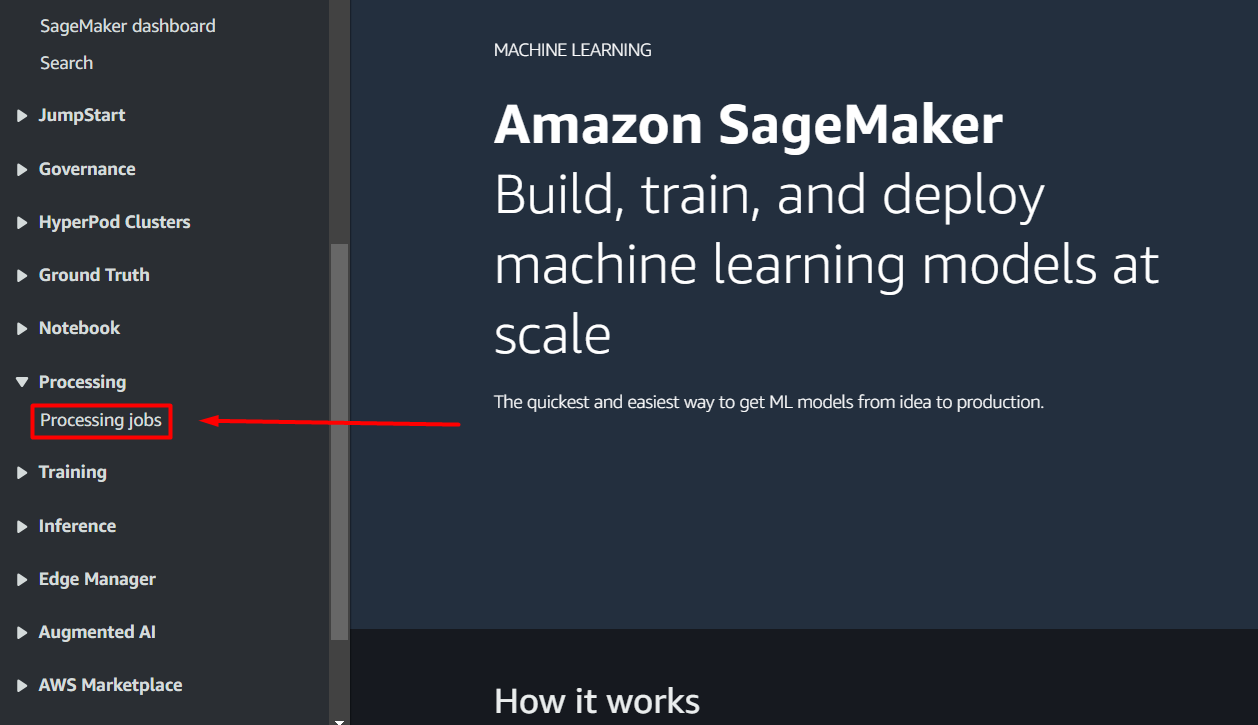
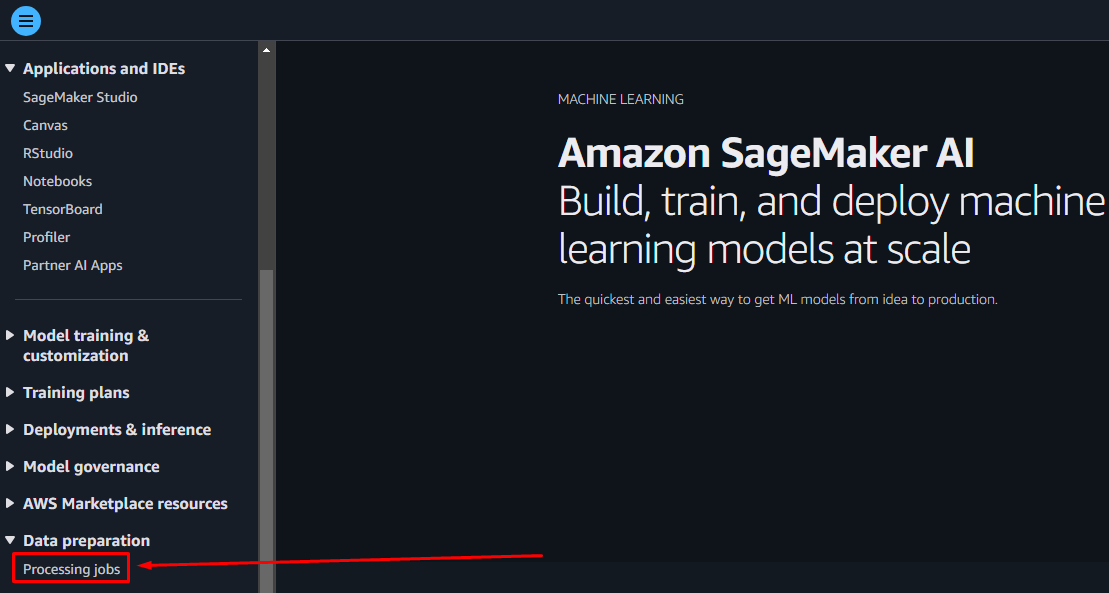
revise tutorial 1

diff --git a/2-ml-workflow/console-tutorial.md b/2-ml-workflow/console-tutorial.md
@@ -8,7 +8,7 @@
       <ul>
         <li><a href="#introduction">Introduction</a></li>
         <li><a href="#lambda-functions">Lambda functions</a></li>
-        <li><a href="#invoking-a-lambda-function">Invoking a Lambda function</a>
+        <li><a href="#invoking-lambda-function">Invoking Lambda function</a>
           <ul>
             <li><a href="#types-of-invocations">Types of invocations</a></li>
             <li><a href="#setting-up">Setting up</a></li>
@@ -20,11 +20,22 @@
     </li>
     <li><a href="#aws-step-functions">AWS Step Functions</a>
       <ul>
-        <li><a href="#introduction">Introduction</a></li>
+        <li><a href="#introduction-1">Introduction</a></li>
         <li><a href="#amazon-states-language">Amazon States Language</a></li>
-        <li><a href="#setting-up-role">Setting up role</a></li>
-        <li><a href="#creating-a-workflow">Creating a workflow</a></li>
-        <li><a href="#invoking-a-workflow">Invoking a workflow</a></li>
+        <li><a href="#setting-up-1">Setting up</a></li>
+        <li><a href="#creating-workflow">Creating workflow</a>
+          <ul>
+            <li><a href="#dafting">Drafting</a></li>
+            <li><a href="#configuring-processing-job">Configuring Processing Job</a></li>
+            <li><a href="#configuring-training-job">Configuring Training Job</a></li>
+            <li><a href="#configuring-model-deployment">Configuring Model Deployment</a></li>
+            <li><a href="#configuring-endpoint">Configuring Endpoint</a></li>
+            <li><a href="#configuring-batch-transform-job">Configuring Batch Transform Job</a></li>
+            <li><a href="#finishing-up">Finishing up</a></li>
+          </ul>
+        </li>
+        <li><a href="#executing-state-machine">Executing state machine</a></li>
+        <li><a href="#invoking-workflow">Invoking workflow</a></li>
       </ul>
     </li>
     <li><a href="#epilogue">Epilogue</a></li>
@@ -95,7 +106,7 @@ In this exercise, you're going to create a basic Lambda function in Python. Then
 14. Click through the log of an event you want to investigate and you can see the error message from there.
 <p align="center"><img src="img/error-log.png" width="80%"></p>
 
-### Invoking a Lambda function
+### Invoking Lambda function
 #### Types of invocations
 There are two types of Lambda function invocations:
 * Synchronous invocation will launch the function and expect a immediate response from the function. As a general rule, you'll be invoking Lambda functions synchronously in ML engineering operations.
@@ -197,18 +208,18 @@ The Amazon States Language (ASL) is a JSON-based, structured language used to de
 ASL originally employs JSONPath as its query language. However, it recently adopts [JSONata](https://docs.jsonata.org/overview.html) as the default query language. When a state machine execution receives JSON input from execution, it passes that data to the first state in the workflow as input. With JSONata, you can retrieve a state input from `states.input`. If a state is successfully completed, its API response will be stored in `states.result`. Furthermore, you can use JSONata to dynamically configure your state machine during each execution.
 <p align="center"><img src="img/vars-jsonata.png" width="80%"></p>
 
-In this exercise, you will embed JSONata expression inside a string value. The expression must start with `{%` with no leading spaces, and must end with `%}` with no trailing spaces. Improperly opening or closing the expression will result in a validation error.
+In this exercise, you will ue JSONata expression a lot. The expression must start with `{%` with no leading spaces, and must end with `%}` with no trailing spaces. Improperly opening or closing the expression will result in a validation error.
 ```JSON
-"{% <JSONata expression> %}"
+{% <JSONata expression> %}
 ```
-Any JSONata functions, provided by Step Functions, or variables must start with the character `$`, e.g. `$states.result` or `$split($variable_1)[0]`. Moreover, because the JSONata expression is in a string value, to add a string into the expression, use the single quote `'` or `\"`. Finally, to concatenate string, use the ampersand character `&`. For example:
+Any JSONata functions, provided by Step Functions, or variables must start with the character `$`, e.g. `$states.result` or `$split($variable_1)[0]`. Moreover, if the JSONata expression is embedded in ASL, it should be enclosed within a string. Thus, to add a string into the expression, use the single quote `'` or `\"`. Finally, to concatenate string, use the ampersand character `&`. For example:
 ```JSON
 "{% $states.input.prefix & 'train/' & $split($states.input.dataset, '.', 1)[0] & '_train.txt' %}"
 ```
 
 No worries, this tutorial will help you set up an ML workflow with ASL along the way. For more information, read [this](https://docs.aws.amazon.com/step-functions/latest/dg/transforming-data.html#writing-jsonata-expressions-in-json-strings) and watch [this](https://www.youtube.com/watch?v=kVWxJoO_zc8).
 
-### Setting up role
+### Setting up
 First of all, you need to create a role and your state machine will use it to gain full access to SageMaker AI and CloudWatch Events:
 1. Head to IAM using the search bar.
 <p align="center"><img src="img/iam.png" width="60%"></p>
@@ -223,7 +234,8 @@ First of all, you need to create a role and your state machine will use it to ga
 5. From the list of role names, click on the name of the role you have just created. From the role details console, attach both *AmazonSageMakerFullAccess* and *CloudWatchEventsFullAccess* to your role. \
 Your state machine needs access to Amazon CloudWatch Events (now part of Amazon EventBridge) so that it can send logs and events to CloudWatch. This enables you to monitor, debug, and manage your workflow.
 
-### Creating a workflow
+### Creating workflow
+#### Drafting
 Now it's time to contruct an ML workflow with Step Functions:
 1. Head to Step Functions using the search bar and in the left sidebar, select *State machines*.
 2. Click the *Create state machine* button.
@@ -233,10 +245,11 @@ Now it's time to contruct an ML workflow with Step Functions:
 4. Take a look at the picture below. Now, use the search bar in the left sidebar of the console, find the illustrated states, and drag them onto the graph canvas to create the corresponding workflow. Rename each state as needed.
 <p align="center"><img src="img/stepfunctions-graph.png"></p>
 
-5. Click on the first state. In the right sidebar, go to the *Configuration* tab, scroll down, and check the option *Wait for task to complete*.
+#### Configuring Processing Job
+1. Click on the first state. In the right sidebar, go to the *Configuration* tab, scroll down, and check the option *Wait for task to complete*.
 <p align="center"><img src="img/sync.png" width="60%"></p>
 
-6. Go to the *Arguments & Output* tab, remove text in the *Arguments* field and write below text instead.You will gradually add more fields inside the curly braces to correctly configure this state. Each field must be separated by a comma and formatted in *valid JSON syntax*. For more information about CreateProcessingJob's arguments, go [here](https://docs.aws.amazon.com/sagemaker/latest/APIReference/API_CreateProcessingJob.html). <p align="center"><img src="img/arg-config.png" width="70%"></p>
+2. Go to the *Arguments & Output* tab, remove text in the *Arguments* field and write below text instead.You will gradually add more fields inside the curly braces to correctly configure this state. Each field must be separated by a comma and formatted in *valid JSON syntax*. For more information about CreateProcessingJob's arguments, go [here](https://docs.aws.amazon.com/sagemaker/latest/APIReference/API_CreateProcessingJob.html). <p align="center"><img src="img/arg-config.png" width="70%"></p>
 
     ```JSON
     {
@@ -244,11 +257,11 @@ Now it's time to contruct an ML workflow with Step Functions:
       "RoleArn": "?"
     }
     ```
-7. Since the name for new processing job must be unique, you should not hard-code its name in the *ProcessingJobName* field. If a static name is used, the state machine will create processing job with the same name for every execution, which will cause error and disrupt the workflow. Instead, dynamically generate a unique name using JSONata expression. In the *ProcessingJobName* field, enter the leading string of your choice for the name and concatenate it with the function `millis()`. For example, `{% 'BlazingText-' & $millis() %}`. Feel free to use different expression.
-8. In the *RoleArn* field, enter the ARN (Amazon Resource Name) of the role you created and used throughout your SageMaker AI experiments in the last tutorial. To do this, head to IAM. In the left navigation sidebar, go to *Access Management* → *Roles*. Then find and click on the name of the role and you will be able to see its ARN.
+3. Since the name for new processing job must be unique, you should not hard-code its name in the *ProcessingJobName* field. If a static name is used, the state machine will create processing job with the same name for every execution, which will cause error and disrupt the workflow. Instead, dynamically generate a unique name using JSONata expression. In the *ProcessingJobName* field, enter the leading string of your choice for the name and concatenate it with the function `millis()`. For example, `{% 'BlazingText-' & $millis() %}`. Feel free to use different expression.
+4. In the *RoleArn* field, enter the ARN (Amazon Resource Name) of the role you created and used throughout your SageMaker AI experiments in the last tutorial. To do this, head to IAM. In the left navigation sidebar, go to *Access Management* → *Roles*. Then find and click on the name of the role and you will be able to see its ARN.
 <p align="center"><img src="img/sagemaker-role.png" width="80%"></p>
 
-9. Add the field below to set up the resources for the job. Remember to seperate it from the previous field with a comma.
+5. Add the field below to set up the resources for the job. Remember to seperate it from the previous field with a comma.
     ```JSON
     "ProcessingResources": {
       "ClusterConfig": {
@@ -258,7 +271,7 @@ Now it's time to contruct an ML workflow with Step Functions:
       }
     }
     ```
-10. Add the field below to set up the inputs for the job. Remember to seperate it from the previous field with a comma. This field contains a list. Just like before, your processing job will have 2 inputs: raw dataset and Python script. So, this list contains two corresponding elements.
+6. Add the field below to set up the inputs for the job. Remember to seperate it from the previous field with a comma. This field contains a list. Just like before, your processing job will have 2 inputs: raw dataset and Python script. So, this list contains two corresponding elements.
     ```JSON
     "ProcessingInputs": [
       {
@@ -290,7 +303,7 @@ Now it's time to contruct an ML workflow with Step Functions:
     }
     ```
     The second element is for the Python script. Provide the S3 location and the local path in the corresponding subfields. No JSONata expression needed.
-11. Add the below field. As before, find and enter the registry path of scikit-learn's processing image in the *AppSpecification* field. For the second element of the *ContainerEntrypoint* field, enter the local address to your Python script, e.g. `/opt/ml/processing/input/code/<your_script_name>`. If you use the provided Python code, enter a JSONata expression in the *ContainerArguments* field, which retrieves the dataset name through state input. Otherwise, remove this subfield.
+7. Add the below field. As before, find and enter the registry path of scikit-learn's processing image in the *AppSpecification* field. For the second element of the *ContainerEntrypoint* field, enter the local address to your Python script, e.g. `/opt/ml/processing/input/code/<your_script_name>`. If you use the provided Python code, enter a JSONata expression in the *ContainerArguments* field, which retrieves the dataset name through state input. Otherwise, remove this subfield.
     ```JSON
     "AppSpecification": {
       "ImageUri": "?",
@@ -303,7 +316,7 @@ Now it's time to contruct an ML workflow with Step Functions:
       ]
     }
     ```
-12. Add the below field to set up the outputs for the job. The *Outputs* field contains a list with two items defining the configuration for the training set and the testing set. In each element, specify where the set should be uploaded in your bucket in the *S3Uri* field, and the local path where your Python script saves the set in the *LocalPath* field. Use JSONata expressions to dynamically determine the S3 output locations from the state input. 
+8. Add the below field to set up the outputs for the job. The *Outputs* field contains a list with two items defining the configuration for the training set and the testing set. In each element, specify where the set should be uploaded in your bucket in the *S3Uri* field, and the local path where your Python script saves the set in the *LocalPath* field. Use JSONata expressions to dynamically determine the S3 output locations from the state input. 
     ```JSON
     "ProcessingOutputConfig": {
       "Outputs": [
@@ -326,7 +339,7 @@ Now it's time to contruct an ML workflow with Step Functions:
       ]
     }
     ```
-13. You have done setting up all required and important arguments for the first state. But you need to define the output of this state so that it will pass the expected S3 locations of the training set and the testing set to the next state in the workflow. Scroll to the *Output* field right below and enter the following:
+9. You have done setting up all required and important arguments for the first state. But you need to define the output of this state so that it will pass the expected S3 locations of the training set and the testing set to the next state in the workflow. Scroll to the *Output* field right below and enter the following:
     ```JSON
     {
       "train": "?",
@@ -340,11 +353,12 @@ Now it's time to contruct an ML workflow with Step Functions:
       "test": "{% $states.input.prefix & 'test/' & $split($states.input.dataset, '.', 1)[0] & '_test.txt' %}"
     }
     ```
-14. Go to the *Variables* tab and enter the text shown below to assign the bucket name, extracted from this state's input, to the variable `bucket`. This variable can be later referenced in subsequent states.
+10. Go to the *Variables* tab and enter the text shown below to assign the bucket name, extracted from this state's input, to the variable `bucket`. This variable can be later referenced in subsequent states.
 <p align="center"><img src="img/variables.png" width="60%"></p>
 
-15. Click on the second state in the workflow. In the *Configuration* tab, scroll down and check the option *Wait for task to complete*.
-16. Go to the *Arguments & Output* tab, remove text in the *Arguments* field and write below text instead. You will gradually add more fields to correctly configure this state. For more information about CreateTrainingJob's arguments, go [here](https://docs.aws.amazon.com/sagemaker/latest/APIReference/API_CreateTrainingJob.html).
+#### Configuring Training Job
+1. Click on the second state in the workflow. In the *Configuration* tab, scroll down and check the option *Wait for task to complete*.
+2. Go to the *Arguments & Output* tab, remove text in the *Arguments* field and write below text instead. You will gradually add more fields to correctly configure this state. For more information about CreateTrainingJob's arguments, go [here](https://docs.aws.amazon.com/sagemaker/latest/APIReference/API_CreateTrainingJob.html).
     ```JSON
     {
       "TrainingJobName": "?",
@@ -352,14 +366,14 @@ Now it's time to contruct an ML workflow with Step Functions:
     }
     ```
     As earlier, you should dynamically generate a unique name for the training job using JSONata expression in the *TrainingJobName* field. In the *RoleArn* field, enter the ARN of the same role used in the previous state.
-17. Add the below field. Then, find and enter registry path where container image of your select algorithm, BlazingText, is stored in Amazon ECR.
+3. Add the below field. Then, find and enter registry path where container image of your select algorithm, BlazingText, is stored in Amazon ECR.
     ```JSON
     "AlgorithmSpecification": {
       "TrainingImage": "?",
       "TrainingInputMode": "File"
     }
     ```
-18. Add the field below to set up the resources for the job.
+4. Add the field below to set up the resources for the job.
     ```JSON
     "ResourceConfig": {
       "VolumeSizeInGB": 5,
@@ -367,13 +381,13 @@ Now it's time to contruct an ML workflow with Step Functions:
       "InstanceType": "ml.m5.large"
     }
     ```
-19. To customize hyperparemeters of the BlazingText algorithm, add the below field. You are encouraged to add more subfields to calibrate more hyperparemeters. Remeber to read its [documentation](https://docs.aws.amazon.com/sagemaker/latest/dg/blazingtext_hyperparameters.html#blazingtext_hyperparameters_text_class) for more information.
+5. To customize hyperparemeters of the BlazingText algorithm, add the below field. You are encouraged to add more subfields to calibrate more hyperparemeters. Remeber to read its [documentation](https://docs.aws.amazon.com/sagemaker/latest/dg/blazingtext_hyperparameters.html#blazingtext_hyperparameters_text_class) for more information.
     ```JSON
     "HyperParameters": {
       "mode": "supervised"
     }
     ```
-20. Add below field to configure input data for the job. The *InputDataConfig* field contains a list with two elements, one for the training set and one for the testing set. In each one, specify S3 location of the corresponding set in the *S3Uri* field. Use JSONata expressions to extract the locations from the state input, which is the output of last state. Since the chosen algorithm only works with one type of data, plain text, you don't have to add and specify the *ContentType* field in each element. But if you work with other algorithms, pay attention to this in their documentation, as they may have different data format options to select.
+6. Add below field to configure input data for the job. The *InputDataConfig* field contains a list with two elements, one for the training set and one for the testing set. In each one, specify S3 location of the corresponding set in the *S3Uri* field. Use JSONata expressions to extract the locations from the state input, which is the output of last state. Since the chosen algorithm only works with one type of data, plain text, you don't have to add and specify the *ContentType* field in each element. But if you work with other algorithms, pay attention to this in their documentation, as they may have different data format options to select.
     ```JSON
     "InputDataConfig": [
       {
@@ -396,25 +410,26 @@ Now it's time to contruct an ML workflow with Step Functions:
       }
     ]
     ```
-21. Add below field to configure output data for the job. In the *S3OutputPath* field, enter the S3 path where you want SageMaker AI to output your model artifact. You should use JSONata expressions to dynamically construct this path with the assigned variable `bucket`, e.g. `{% 's3://' & $bucket & '/models/' %}`. 
+7. Add below field to configure output data for the job. In the *S3OutputPath* field, enter the S3 path where you want SageMaker AI to output your model artifact. You should use JSONata expressions to dynamically construct this path with the assigned variable `bucket`, e.g. `{% 's3://' & $bucket & '/models/' %}`. 
     ```JSON
     "OutputDataConfig": {
       "S3OutputPath": "?"
     }
     ```
-22. Add this last field to set maximum runtime to 10 minutes.
+8. Add this last field to set maximum runtime to 10 minutes.
     ```JSON
     "StoppingCondition": {
       "MaxRuntimeInSeconds": 600
     }
     ```
-23. Suppose that the training job runs successfully and creates a model artifact, the exact S3 location of the model artifact will be stored in the API response. You should pass this location to the next state in the workflow. Scroll to the *Output* field right below and enter the following:
+9. Suppose that the training job runs successfully and creates a model artifact, the exact S3 location of the model artifact will be stored in the API response. You should pass this location information to the next state in the workflow. Scroll to the *Output* field right below and enter the following:
     ```JSON
-    {
-      "artifact": "{% $states.result.ModelArtifacts.S3ModelArtifacts %}"
-    }
+    {% $states.result.ModelArtifacts.S3ModelArtifacts %}
     ```
-24. Move to the third state of the workflow. Go to the *Arguments & Output* tab, remove text in the *Arguments* field and write below text instead:
+    Unless you would like to pass more than just one field of information, you can directly insert JSONata expression or quote-delimited string instead of ASL and easily retrieve it later using `$state.input` without additional subfield.
+
+#### Configuring Model Deployment
+1. Move to the third state of the workflow. Go to the *Arguments & Output* tab, remove text in the *Arguments* field and write below text instead:
     ```JSON
     {
       "ModelName": "?",
@@ -426,9 +441,11 @@ Now it's time to contruct an ML workflow with Step Functions:
       }
     }
     ```
-25. In *ModelName*, generate a unique name for the model object. In *ExecutionRoleArn*, enter the usual ARN. In *Image*, enter registry path of container image of *BlazingText*. In *ModelDataUrl*, enter S3 location of model artifact, extracted from state input.
-26. Scroll down to the *Output* field. Set it to pass the name of the model object to the next state. You should use the `split` function on the `states.result.ModelArn` variable to isolate the name from the full ARN string. 
-27. Move to the *CreateEndpointConfig* state. Go to the *Arguments & Output* tab, remove text in the *Arguments* field and write below text instead:
+2. In *ModelName*, generate a unique name for the model object. In *ExecutionRoleArn*, enter the usual ARN. In *Image*, enter registry path of container image of *BlazingText*. In *ModelDataUrl*, enter S3 location of model artifact, extracted from state input.
+3. Scroll down to the *Output* field. Set it to pass the name of the model object to the next state. You should use the `split` function on the `states.result.ModelArn` variable to isolate the name from the full ARN string. 
+
+#### Configuring Endpoint
+1. Move to the *CreateEndpointConfig* state. Go to the *Arguments & Output* tab, remove text in the *Arguments* field and write below text instead:
     ```JSON
     {
       "EndpointConfigName": "?",
@@ -442,29 +459,28 @@ Now it's time to contruct an ML workflow with Step Functions:
       ]
     }
     ```
-28. In *EndpointConfigName*, generate a unique name for the endpoint configuration. In *ModelName*, enter the name of model object, extracted from state input.
-29. Scroll down to the *Output* field. Set it to pass the name of the endpoint configuration to the next state. You should use the `split` function on the `states.result.EndpointConfigArn` variable to isolate the name from the full ARN string.
-30. Move to the *CreateEndpoint* state. In the *Arguments & Output* tab, remove text in the *Arguments* field and write below text instead:
+2. In *EndpointConfigName*, generate a unique name for the endpoint configuration. In *ModelName*, enter the name of model object, extracted from state input.
+3. Scroll down to the *Output* field. Set it to pass the name of the endpoint configuration to the next state. You should use the `split` function on the `states.result.EndpointConfigArn` variable to isolate the name from the full ARN string.
+4. Move to the *CreateEndpoint* state. In the *Arguments & Output* tab, remove text in the *Arguments* field and write below text instead:
     ```JSON
     {
       "EndpointConfigName": "?",
       "EndpointName": "BlazingText-Reviews-Classifier"
     }
     ```
-31. In *EndpointConfigName*, enter the name of endpoint configuration, extracted from state input. For the *EndpointName* field, since you will delete the endpoint shortly after you invoke it to save resources, you don't have to generate a unique name for it. But if you decide to generate, remember to pass its name to the next state.
-32. Move to the *DescribeEndpoint* state. In the *Arguments & Output* tab, under the *Arguments* field, enter the name of endpoint for *EndpointName*.
-33. Move to the *Choice* state. At this state, you will make a loop that occasionally checks for the endpoint status via the output of *DescribeEndpoint*. The loop will stop when the endpoint creation is done. To do this, scroll down to the *Choice Rules* section and click on the pencil icon of *Rule #1*.
+5. In *EndpointConfigName*, enter the name of endpoint configuration, extracted from state input. For the *EndpointName* field, since you will delete the endpoint shortly after you invoke it to save resources, you don't have to generate a unique name for it. But if you decide to generate, remember to pass its name to the next state.
+6.  Move to the *DescribeEndpoint* state. In the *Arguments & Output* tab, under the *Arguments* field, enter the name of endpoint for *EndpointName*.
+7.  Move to the *Choice* state. At this state, you will make a loop that occasionally checks for the endpoint status via the output of *DescribeEndpoint*. The loop will stop when the endpoint creation is done. To do this, scroll down to the *Choice Rules* section and click on the pencil icon of *Rule #1*.
 <p align="center"><img src="img/edit-rule.png" width="60%"></p>
 
-34. In the *Condition* field, enter the JSONata expression below to let the state check if the endpoint status is *Creating*. Because you don't specify the output for *DescribeEndpoint*, it will have the API response as state output and pass that to the next state. Therefore, you can easily retrieve the endpoint status from the API response.
+8.  In the *Condition* field, enter the JSONata expression below to let the state check if the endpoint status is *Creating*. Because you don't specify the output for *DescribeEndpoint*, it will have the API response as state output and pass that to the next state. Therefore, you can easily retrieve the endpoint status from the API response.
 ```JSON
 {% $states.input.EndpointStatus = 'Creating' %}
 ```
-35. Move to the *Wait* state. In the *Seconds* field, enter `60` to force the state machine wait for 1 minute before jumping to the next state. You can increase or decrease the waiting time as needed. In the *Next state* field, select *DescribeEndpoint* to make a loop.
+9.  Move to the *Wait* state. In the *Seconds* field, enter `60` to force the state machine wait for 1 minute before jumping to the next state. You can increase or decrease the waiting time as needed. In the *Next state* field, select *DescribeEndpoint* to make a loop.
 <p align="center"><img src="img/loop.png" width="80%"></p>
 
-
-36. Move to the *InvokeEndpoint* state. Go to the *Arguments & Output* tab, remove text in the *Arguments* field and write below text instead:
+10. Move to the *InvokeEndpoint* state. Go to the *Arguments & Output* tab, remove text in the *Arguments* field and write below text instead:
     ```JSON
     {
       "Body": "{\"instances\": [\"Review sentence #1.\", \"Review sentence #2.\", \"Review sentence #3.\"]}",
@@ -472,14 +488,16 @@ Now it's time to contruct an ML workflow with Step Functions:
     }
     ```
     Replace the placeholder sentences with your custom review sentences and add more if needed.
-37. In the *Body* field, write down a list of custom review sentences, as many as you like.
-38. Move to the *DeleteEndpoint* state. Go to the *Arguments & Output* tab, remove text in the *Arguments* field and write below text instead:
+11. In the *Body* field, write down a list of custom review sentences, as many as you like.
+12. Move to the *DeleteEndpoint* state. Go to the *Arguments & Output* tab, remove text in the *Arguments* field and write below text instead:
     ```JSON
     {
       "EndpointName": "BlazingText-Reviews-Classifier"
     }
     ```
-39. Move to the *CreateTransformJob* state. Go to the *Arguments & Output* tab, remove text in the *Arguments* field and write below text instead:
+
+#### Configuring Batch Transform Job
+1. Move to the *CreateTransformJob* state. Go to the *Arguments & Output* tab, remove text in the *Arguments* field and write below text instead:
     ```JSON
     {
       "TransformJobName": "?",
@@ -504,18 +522,21 @@ Now it's time to contruct an ML workflow with Step Functions:
       }
     }
     ```
-40. Fill in the missing parts with appropriate values or JSONata expressions.
-41. Now switch to the *Config* tab of the state machine console.
+2. Fill in the missing parts with appropriate values or JSONata expressions.
+
+#### Finishing up
+1. Now switch to the *Config* tab of the state machine console.
 <p align="center"><img src="img/config-tab.png" width="80%"></p>
 
-42. Scroll down to the *Permissions* section and select the role you have preserved for your state machine. Finally, click on the *Create* button on the top right.
+2. Scroll down to the *Permissions* section and select the role you have preserved for your state machine. 
+3. Finally, click on the *Create* button on the top right.
 <p align="center"><img src="img/create-state-machine.png" width="80%"></p>
 
 Alternatively, you can use *AWS Lambda: Invoke* state to intergrate your Lambda function from previous section as your first state of the workflow, instead of *Amazon SageMaker: CreateProcessingJob* state. With this setup, you have to change either state machine input or your Lambda function's code.
 
 Finally, you can add more states after *DeleteEndpoint* state to delete endpoint configuration and model object to free up resources.
 
-### Executing a state machine
+### Executing state machine
 To try out your new ML workflow, simply do the following:
 1. Go to your S3 bucket and delete all training sets, all testing sets, and all inference results of batch transform jobs from previous practices.
 2. In your state machine console, click on the *Start execution* button.
@@ -549,7 +570,7 @@ In addition, you can test an individual state while configuring it to ensure it 
 
 Keep in mind that the test state feature does not support [*Activity tasks*](https://docs.aws.amazon.com/step-functions/latest/dg/concepts-activities.html), *Parallel* state, and *Map* state and it can run for up to 5 minutes.
 
-### Invoking a workflow
+### Invoking workflow
 The final step of this tutorial is to automate your newly made ML workflow. You can do this by utilizing Lambda function in conjunction with the AWS SDK for Python:
 1. Create a Lambda function with a Python runtime.
 2. Attach *AWSStepFunctionsFullAccess* to the role of this Lambda function.

diff --git a/1-sagemaker/console-tutorial.md b/1-sagemaker/console-tutorial.md
@@ -115,7 +115,7 @@ __label__2 If you're new to gaming or like relatively simple games I recommend y
 Finally, it is your responsibility is to split the dataset into training set and testing set. Training set should represent 80% of the dataset, while the rest is testing set. Make sure that they don't overlap.
 
 All of the procedures mentioned above and more are collectively called *data pre-processing*, the first and most crucial step in any machine learning project. To do all of that, follow these steps:
-1. Navigate to Amazon SageMaker AI. In the left navigation sidebar, go to *Processing* → *Processing jobs*.
+1. Navigate to Amazon SageMaker AI. In the left navigation sidebar, go to *Data preparation* → *Processing jobs*.
 <p align="center"><img src="img/processing.png" width="60%"></p>
 
 2. Click on *Create processing job* button.
@@ -174,7 +174,7 @@ After you successfully pre-processed your dataset, it is time to train a model w
 7. Under *Stopping condition*, set *Maximum runtime* to 10 minutes. The training job will automatically stop if it exceeds this time limit. It is important that you set runtime limit for your training job because if it takes a long time, you will be charged more.
 <p align="center"><img src="img/training_config.png" width="60%"></p>
 
-8. In the *Hyperparameters* field, set *mode* to *supervised*.
+8. In the *Hyperparameters* field, set *mode* to *supervised*. You are encouraged to set more hyperparemeters, just remeber to read its [documentation](https://docs.aws.amazon.com/sagemaker/latest/dg/blazingtext_hyperparameters.html#blazingtext_hyperparameters_text_class) for more information.
 <p align="center"><img src="img/hyper_mode.png" width="60%"></p>
 
 9. In the *Input data configuration* field, enter the S3 location of your training set. Since the chosen algorithm only works with one type of data, plain text, you don't have to specify the content type of your data. But if you work with other algorithms, pay attention to this in their documentation, as they may have different data format options to select.
@@ -193,7 +193,7 @@ In SageMaker AI, an endpoint serves as an Application Programming Interface (API
 
 To deploy a model, first you have to create a model object in SageMaker AI from a model artifact:
 1. Navigate to Amazon SageMaker AI.
-2. In the left navigation sidebar, go to *Inference* → *Models*.
+2. In the left navigation sidebar, go to *Deployments & inference* → *Deployable models*.
 <p align="center"><img src="img/models.png" width="60%"></p>
 
 3. Click on *Create model* button.
@@ -220,8 +220,7 @@ Now that you have a model object in SageMaker AI, let's deploy it with an endpoi
 5. Under *Type of endpoint*, select *Provisioned*.
 <p align="center"><img src="img/endpoint_config.png" width="60%"></p>
 
-6. If you want your endpoint to handle prediction request asynchronously, turn on *Async Invocation Config* and provide neccessary information. If you also want your endpoint to save prediction request and response, switch *Enable data capture* on and fill in neccessary information. \
-Otherwise, click on *Create endpoint configuration* and then *Create endpoint* at the bottom.
+6. If you want your endpoint to handle prediction request asynchronously, turn on *Async Invocation Config* and provide neccessary information. If you also want your endpoint to save prediction request and response, switch *Enable data capture* on and fill in neccessary information. Otherwise, click on *Create endpoint configuration* and then *Create endpoint* at the bottom.
 
 Wait for a few moment. Once the endpoint status changes to *InService*, you can then interact with it and make real-time predictions on new data. This can be done through AWS SDK, such as `boto3` or `sagemaker` modules in Python, which is covered in [SDK tutorial](sdk-tutorial.ipynb). Alternatively, you can integrate your endpoint with other AWS services like AWS Lambda and AWS Step Functions, which will be covered in the next tutorial.
 
@@ -229,14 +228,14 @@ When sending a prediction request to your endpoint, check if the input data adhe
 
 For BlazingText algorithm, the inference data requires a different structure from the training data, as found in [its documentation](https://docs.aws.amazon.com/sagemaker/latest/dg/blazingtext.html). You need to send a prediction request in the form of JSON object and indicate the content type of the request, which is `application/json`.
 
-<ins>**Please note**</ins>: Creating an endpoint and keeping it active **does incur costs** on your AWS account, even if it's idle. To avoid unwanted charges, delete any endpoint right after you finish your experiment, or when you are stepping away.
+<ins>**Please note**</ins>: Creating an endpoint and keeping it active **does incur costs** on your AWS account, even if it's idle. To avoid unwanted charges, delete any endpoint right after you finish your experiment, or when you are stepping away. Deleting model object and endpoint configuration are optional.
 
 ### Batch transform jobs
 Batch Transform is a compute job that performs inference using your trained model on large datasets. A batch transform job is ideal for large-scale predictions where low latency is not a priority. This differs from an endpoint in that endpoints service real-time, individual user requests for inference over time.
 
 To deploy a model with a batch transform job:
 1. Navigate to Amazon SageMaker AI.
-2. In the left navigation sidebar, go to *Inference* → *Batch transform jobs*.
+2. In the left navigation sidebar, go to *Deployments & inference* → *Batch transform jobs*.
 <p align="center"><img src="img/batch_job.png" width="60%"></p>
 
 3. Click on *Create batch transform job* button.
